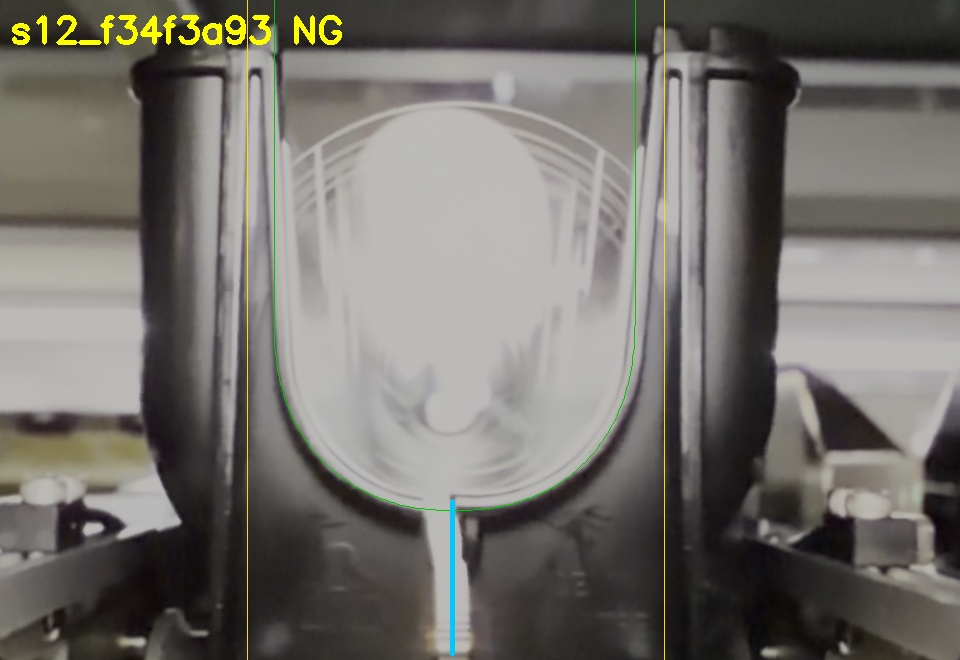
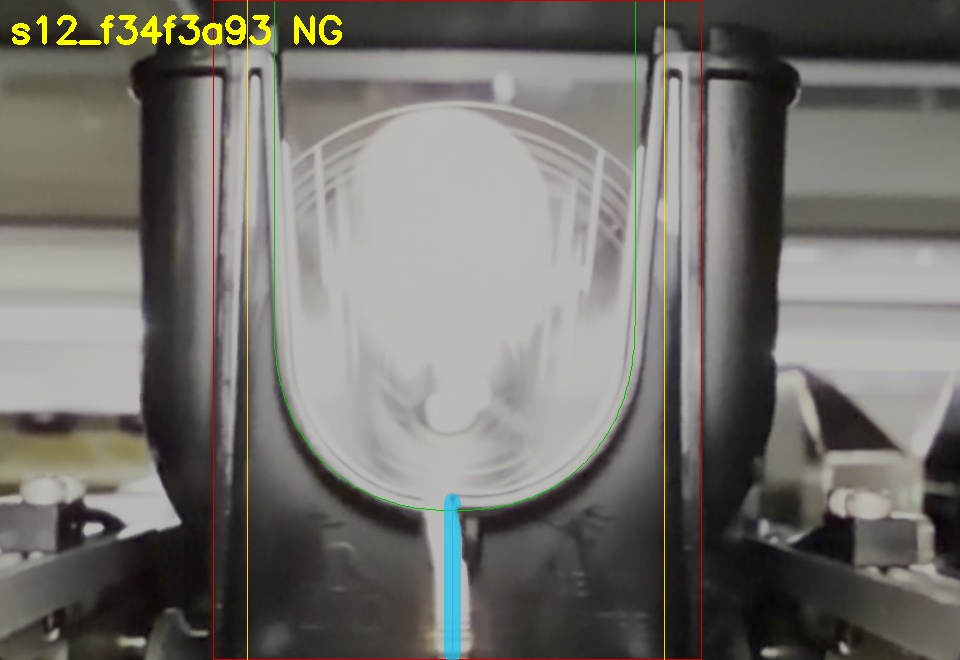
Stable U detection fallback, gate mold line not NG by continuity alone, D ratio 0.30, crack width measurement and region drawing, outer frame drawn; OK 157/157, NG 42/48
Claude-Session: https://claude.ai/code/session_01AGHVZAzegJVfdU4wL5nFmJ

diff --git a/gist/crack_v14_bundle.py b/gist/crack_v14_bundle.py
@@ -102,23 +102,30 @@ def main():
         lw = max(2, round(vis.shape[1] / 320))           # 画像の大きさに合わせた線の太さ
         # 見つけた U字と縦リブ（細い線、確認用）
         cv2.polylines(vis, [r["u_img"]["rim"].astype(np.int32)], False, (0, 200, 0), max(1, lw // 2))
+        if "frame" in r["u_img"]:
+            cv2.polylines(vis, [r["u_img"]["frame"].astype(np.int32)], False, (0, 0, 200), max(1, lw // 2))
         for line in r["u_img"]["ribs"]:
             cv2.polylines(vis, [line.astype(np.int32)], False, (0, 220, 255), max(1, lw // 2))
         for t in ("D", "B"):
             for i, q in enumerate(r["res"].get(t, [])):
                 if q["ng"]:
-                    cv2.polylines(vis, [q["path_img"].astype(np.int32)], False, COLORS[t], lw)
+                    if "region" in q:                     # 割れの領域を幅のまま半透明で塗る
+                        reg = cv2.resize(q["region"].astype(np.uint8), (vis.shape[1], vis.shape[0]),
+                                         interpolation=cv2.INTER_NEAREST).astype(bool)
+                        vis[reg] = (0.4 * vis[reg] + 0.6 * np.array(COLORS[t])).astype(np.uint8)
+                    cv2.polylines(vis, [q["path_img"].astype(np.int32)], False, COLORS[t], max(1, lw // 2))
                 rb, rc = q.get("rim_break"), q.get("reach")
                 msg += (f" | {t}{i} r={q['ratio']:.2f} gap={q['max_gap']:.0f}"
                         f" in={q['inner_gap']:.0f} out={q['outer_gap']:.0f}"
                         + (f" rim={rb:.2f}" if rb is not None else "")
                         + (f" reach={rc:.2f}" if rc is not None else "")
+                        + (f" 幅={q['width_px']:.1f}px(最大{q['width_max_px']:.1f})" if "width_px" in q else "")
                         + (" NG" if q["ng"] else ""))
                 (x1, y1), (x2, y2) = q["path_img"].min(0).astype(int), q["path_img"].max(0).astype(int)
                 rows.append([name, t, i, round(q["ratio"], 3), round(q["max_gap"], 1),
                              round(q["inner_gap"], 1), round(q["outer_gap"], 1),
                              "" if rb is None else round(rb, 3), "" if rc is None else round(rc, 3),
-                             q["ng"], x1, y1, x2, y2])
+                             q["ng"], round(q.get("width_px", 0), 1), round(q.get("width_max_px", 0), 1), x1, y1, x2, y2])
         print(msg)
         summary.append([name, r["judgment"], r["detail"], len(r["defects"])])
 
@@ -139,7 +146,7 @@ def main():
     with open(os.path.join(a.out, "results.csv"), "w", newline="") as fh:
         w = csv.writer(fh)
         w.writerow(["img", "type", "rank", "ratio", "max_gap", "inner_gap", "outer_gap",
-                    "rim_break", "reach", "ng", "x1", "y1", "x2", "y2"])
+                    "rim_break", "reach", "ng", "width_px", "width_max_px", "x1", "y1", "x2", "y2"])
         w.writerows(rows)
     n_ng = sum(1 for r in summary if r[1] == "NG")
     n_err = sum(1 for r in summary if r[1] == "ERROR")
@@ -733,7 +740,7 @@ from .u_detect import detect_geometry
 
 # ---------------------------------------------------------------- 判定の閾値（調整するのはここ）
 PARAMS = dict(
-    ratio_th=0.35,        # 道の上で健全部を通った割合がこれ以下なら「抜けている」（D: 暗い割れ）
+    ratio_th=0.30,        # 道の上で健全部を通った割合がこれ以下なら「抜けている」（D: 暗い割れ。本物は最大 0.25、OK品の傷は 0.31〜）
     b_ratio_th=0.50,      # B（明るい割れ）は光が漏れてはっきり明るいので厳しくする（本物は 0.03〜0.06、リブの反射は 0.3 前後）
     gap_th=25.0,          # 割れていない区間が最長でもこれ以下 [px]
     end_gap_inner=15.0,   # 割れが内側の端からこれ以上手前で止まっていたら半割れ（OK） [px]
@@ -829,16 +836,40 @@ class Inspector:
                     q["ng"] = q["ng"] and ends_ok and q["reach"] >= p["reach_th"]
                 else:
                     q["rim_break"], ri = cr.rim_break(frame, start)
-                    if cr.rim_ignored(ri):
+                    at_gate = cr.rim_ignored(ri)
+                    if at_gate:
                         q["rim_break"] = 0.0                            # ゲートの切り欠きは数えない
                     P = q["path"]
                     detour = q["length"] / max(float(to_outer[P[0, 0], P[0, 1]]), 1.0)
                     q["detour"] = detour
-                    solid = q["max_gap"] <= p["solid_gap_th"] and (
+                    # ゲートから真下の穴へは、OK品にも同じ位置に成形線が通っている。ゲートから始まる線は
+                    # 「きれいにつながっている」だけでは NG にしない（縁取りの途切れが必要）
+                    solid = (not at_gate) and q["max_gap"] <= p["solid_gap_th"] and (
                         q["ratio"] <= p["solid_ratio_th"]
                         or (q["ratio"] <= p["direct_ratio_th"] and detour <= p["direct_detour"]))
                     q["ng"] = q["ng"] and ends_ok and (q["rim_break"] >= p["rim_break_th"] or solid)
                 q.pop("prob", None)
+
+        # 割れの幅: 割れらしい画素の塊のうち、経路の近くにある部分を「割れの領域」として、
+        # 経路の各点での太さ（中心から縁までの距離 × 2）を測る
+        maps = {"D": pd}
+        if lit:
+            maps["B"] = pb
+        sx_in = gray.shape[1] / SIZE[0]                         # 検査の座標 1px = 入力画像の何px か
+        for t, cands in res.items():
+            crack = (maps[t] > 0.15).astype(np.uint8)
+            dt = cv2.distanceTransform(crack, cv2.DIST_L2, 3)
+            for q in cands:
+                if not q["ng"]:
+                    continue
+                P = q["path"]
+                near = np.zeros(crack.shape, np.uint8)
+                cv2.polylines(near, [P[:, ::-1].astype(np.int32)], False, 1, 15)
+                q["region"] = (crack & near).astype(bool)            # 割れの領域（幅のある形）
+                w = 2 * dt[P[:, 0], P[:, 1]]
+                w = w[w > 0]
+                q["width_px"] = float(np.median(w) * sx_in) if len(w) else 0.0      # 入力画像での幅 [px]
+                q["width_max_px"] = float(np.percentile(w, 95) * sx_in) if len(w) else 0.0
 
         # 見つけた経路・U字の線を入力画像の座標に戻す（結果の描画と CSV 用）
         Minv = np.linalg.inv(M)
@@ -855,6 +886,9 @@ class Inspector:
                     defects.append(dict(type=t, bbox=(int(x1), int(y1), int(x2), int(y2))))
         types = sorted({t for t in res if any(q["ng"] for q in res[t])})
         u_img = dict(rim=back(geom["opening"][1:-1]), ribs=[back(line) for line in geom["outer"][:2]])
+        if "frame_box" in geom:                                  # カセットの外側の縁（確認用の赤い枠）
+            a_, b_ = geom["frame_box"]; yb_ = max(y for _, y in geom["plate"])
+            u_img["frame"] = back([(a_, 0), (b_, 0), (b_, yb_), (a_, yb_), (a_, 0)])
         return dict(kind="auto", backlit=lit, u_score=uscore, geom=geom, u_img=u_img, M=M, frame=frame,
                     res=res, judgment="NG" if defects else "OK", defects=defects, detail="+".join(types))
 '''
@@ -1108,7 +1142,7 @@ def u_model(cx, w, cy, ry, sq, n_arc=120, leg_step=6.0):
     return np.vstack([left, arc, right])
 
 
-def find_opening(frame):
+def find_opening(frame, sigma=2.0, bottom_seed=0.97):
     """U字の開口部（縁取りの内側の穴）を、領域として切り出す（ウォーターシェッド法）。
 
     考え方:
@@ -1120,12 +1154,12 @@ def find_opening(frame):
     そのあと、明るい割れに沿って細く漏れた部分を、太い円で削って取り除く。
     """
     H, W = frame.shape
-    f = cv2.GaussianBlur(frame.astype(np.float32), (0, 0), 2)
+    f = cv2.GaussianBlur(frame.astype(np.float32), (0, 0), sigma)
     gm = cv2.magnitude(cv2.Sobel(f, cv2.CV_32F, 1, 0), cv2.Sobel(f, cv2.CV_32F, 0, 1))
     gm = np.clip(gm / (np.percentile(gm, 99) + 1e-6) * 255, 0, 255).astype(np.uint8)
     mk = np.zeros((H, W), np.int32)
     mk[int(0.12 * H):int(0.30 * H), int(0.49 * W):int(0.51 * W)] = 1          # 中の種
-    mk[int(0.97 * H):, :] = 2; mk[:, :int(0.03 * W)] = 2; mk[:, int(0.97 * W):] = 2   # 外の種
+    mk[int(bottom_seed * H):, :] = 2; mk[:, :int(0.03 * W)] = 2; mk[:, int(0.97 * W):] = 2   # 外の種
     ws = cv2.watershed(cv2.cvtColor(gm, cv2.COLOR_GRAY2BGR), mk)
     op = (ws == 1).astype(np.uint8)
     k = cv2.getStructuringElement(cv2.MORPH_ELLIPSE, (41, 41))
@@ -1280,8 +1314,37 @@ def find_plate_bottom(frame, lx, rx, y_start):
 def detect_geometry(frame, edge_margin=3, min_thick=40):
     """1枚の画像（基準座標 960x660）から検査範囲を作る。戻り値: (検査範囲, はっきり度)"""
     W, H = SIZE
-    op = find_opening(frame)                                    # U字の開口部を領域として切り出す
-    up, fit_err = fit_u_to_mask(op)                             # その輪郭に綺麗なU字を当てはめる
+    # ウォーターシェッドは画像のわずかな違いで結果が変わることがあるので、ぼかし具合と「外」の種を
+    # 変えて何通りか作り、「線の内側が明るく、外側（樹脂）が暗い」がいちばんはっきりした U字を選ぶ
+    img_s = cv2.GaussianBlur(frame.astype(np.float32), (0, 0), 1.5)
+    best, primary = None, None
+    for sigma in (1.5, 2.0, 3.0):
+        for bseed in (0.97, 0.80):
+            op_ = find_opening(frame, sigma, bseed)
+            if op_.sum() < 0.02 * op_.size:
+                continue
+            up_, err_ = fit_u_to_mask(op_)
+            c = u_model(*up_, n_arc=80, leg_step=8.0)
+            c = c[c[:, 1] > 0.1 * H]
+            t = np.gradient(c, axis=0); t /= np.linalg.norm(t, axis=1, keepdims=True) + 1e-9
+            nrm = np.stack([t[:, 1], -t[:, 0]], 1)               # 内側向き
+            def val(q):
+                x = np.clip(q[:, 0], 0, W - 1).astype(np.float32).reshape(1, -1)
+                y = np.clip(q[:, 1], 0, H - 1).astype(np.float32).reshape(1, -1)
+                return cv2.remap(img_s, x, y, cv2.INTER_LINEAR).ravel()
+            pol = np.mean([val(c + d * nrm) - val(c - d * nrm) for d in (4, 8, 12)], axis=0)
+            score = float(np.clip(pol, -40, 40).mean()) - 0.5 * err_
+            if sigma == 2.0 and bseed == 0.97:
+                primary = (score, op_, up_, err_)
+            if best is None or score > best[0]:
+                best = (score, op_, up_, err_)
+    # 基本は標準の設定（ぼかし2・下端の種）の結果を使う。開口部がプレートまで漏れて
+    # U字の底が画像の下の方まで来てしまった（明らかに失敗した）ときだけ、別の結果に替える
+    if primary is not None:
+        p_bottom = primary[2][2] + primary[2][3]
+        if p_bottom < 0.72 * H or best[0] < primary[0] + 8:
+            best = primary
+    _, op, up, fit_err = best
     cx, cy = up[0], up[2]
     total = 60.0 - fit_err                                      # はっきり度: 当てはまりが良いほど大きい
     rim = u_model(*up)

diff --git a/crack_v14/inspect_v14.py b/crack_v14/inspect_v14.py
@@ -20,7 +20,7 @@ from .u_detect import detect_geometry
 
 # ---------------------------------------------------------------- 判定の閾値（調整するのはここ）
 PARAMS = dict(
-    ratio_th=0.35,        # 道の上で健全部を通った割合がこれ以下なら「抜けている」（D: 暗い割れ）
+    ratio_th=0.30,        # 道の上で健全部を通った割合がこれ以下なら「抜けている」（D: 暗い割れ。本物は最大 0.25、OK品の傷は 0.31〜）
     b_ratio_th=0.50,      # B（明るい割れ）は光が漏れてはっきり明るいので厳しくする（本物は 0.03〜0.06、リブの反射は 0.3 前後）
     gap_th=25.0,          # 割れていない区間が最長でもこれ以下 [px]
     end_gap_inner=15.0,   # 割れが内側の端からこれ以上手前で止まっていたら半割れ（OK） [px]
@@ -116,16 +116,40 @@ class Inspector:
                     q["ng"] = q["ng"] and ends_ok and q["reach"] >= p["reach_th"]
                 else:
                     q["rim_break"], ri = cr.rim_break(frame, start)
-                    if cr.rim_ignored(ri):
+                    at_gate = cr.rim_ignored(ri)
+                    if at_gate:
                         q["rim_break"] = 0.0                            # ゲートの切り欠きは数えない
                     P = q["path"]
                     detour = q["length"] / max(float(to_outer[P[0, 0], P[0, 1]]), 1.0)
                     q["detour"] = detour
-                    solid = q["max_gap"] <= p["solid_gap_th"] and (
+                    # ゲートから真下の穴へは、OK品にも同じ位置に成形線が通っている。ゲートから始まる線は
+                    # 「きれいにつながっている」だけでは NG にしない（縁取りの途切れが必要）
+                    solid = (not at_gate) and q["max_gap"] <= p["solid_gap_th"] and (
                         q["ratio"] <= p["solid_ratio_th"]
                         or (q["ratio"] <= p["direct_ratio_th"] and detour <= p["direct_detour"]))
                     q["ng"] = q["ng"] and ends_ok and (q["rim_break"] >= p["rim_break_th"] or solid)
                 q.pop("prob", None)
+
+        # 割れの幅: 割れらしい画素の塊のうち、経路の近くにある部分を「割れの領域」として、
+        # 経路の各点での太さ（中心から縁までの距離 × 2）を測る
+        maps = {"D": pd}
+        if lit:
+            maps["B"] = pb
+        sx_in = gray.shape[1] / SIZE[0]                         # 検査の座標 1px = 入力画像の何px か
+        for t, cands in res.items():
+            crack = (maps[t] > 0.15).astype(np.uint8)
+            dt = cv2.distanceTransform(crack, cv2.DIST_L2, 3)
+            for q in cands:
+                if not q["ng"]:
+                    continue
+                P = q["path"]
+                near = np.zeros(crack.shape, np.uint8)
+                cv2.polylines(near, [P[:, ::-1].astype(np.int32)], False, 1, 15)
+                q["region"] = (crack & near).astype(bool)            # 割れの領域（幅のある形）
+                w = 2 * dt[P[:, 0], P[:, 1]]
+                w = w[w > 0]
+                q["width_px"] = float(np.median(w) * sx_in) if len(w) else 0.0      # 入力画像での幅 [px]
+                q["width_max_px"] = float(np.percentile(w, 95) * sx_in) if len(w) else 0.0
 
         # 見つけた経路・U字の線を入力画像の座標に戻す（結果の描画と CSV 用）
         Minv = np.linalg.inv(M)
@@ -142,5 +166,8 @@ class Inspector:
                     defects.append(dict(type=t, bbox=(int(x1), int(y1), int(x2), int(y2))))
         types = sorted({t for t in res if any(q["ng"] for q in res[t])})
         u_img = dict(rim=back(geom["opening"][1:-1]), ribs=[back(line) for line in geom["outer"][:2]])
+        if "frame_box" in geom:                                  # カセットの外側の縁（確認用の赤い枠）
+            a_, b_ = geom["frame_box"]; yb_ = max(y for _, y in geom["plate"])
+            u_img["frame"] = back([(a_, 0), (b_, 0), (b_, yb_), (a_, yb_), (a_, 0)])
         return dict(kind="auto", backlit=lit, u_score=uscore, geom=geom, u_img=u_img, M=M, frame=frame,
                     res=res, judgment="NG" if defects else "OK", defects=defects, detail="+".join(types))

diff --git a/crack_v14/u_detect.py b/crack_v14/u_detect.py
@@ -68,7 +68,7 @@ def u_model(cx, w, cy, ry, sq, n_arc=120, leg_step=6.0):
     return np.vstack([left, arc, right])
 
 
-def find_opening(frame):
+def find_opening(frame, sigma=2.0, bottom_seed=0.97):
     """U字の開口部（縁取りの内側の穴）を、領域として切り出す（ウォーターシェッド法）。
 
     考え方:
@@ -80,12 +80,12 @@ def find_opening(frame):
     そのあと、明るい割れに沿って細く漏れた部分を、太い円で削って取り除く。
     """
     H, W = frame.shape
-    f = cv2.GaussianBlur(frame.astype(np.float32), (0, 0), 2)
+    f = cv2.GaussianBlur(frame.astype(np.float32), (0, 0), sigma)
     gm = cv2.magnitude(cv2.Sobel(f, cv2.CV_32F, 1, 0), cv2.Sobel(f, cv2.CV_32F, 0, 1))
     gm = np.clip(gm / (np.percentile(gm, 99) + 1e-6) * 255, 0, 255).astype(np.uint8)
     mk = np.zeros((H, W), np.int32)
     mk[int(0.12 * H):int(0.30 * H), int(0.49 * W):int(0.51 * W)] = 1          # 中の種
-    mk[int(0.97 * H):, :] = 2; mk[:, :int(0.03 * W)] = 2; mk[:, int(0.97 * W):] = 2   # 外の種
+    mk[int(bottom_seed * H):, :] = 2; mk[:, :int(0.03 * W)] = 2; mk[:, int(0.97 * W):] = 2   # 外の種
     ws = cv2.watershed(cv2.cvtColor(gm, cv2.COLOR_GRAY2BGR), mk)
     op = (ws == 1).astype(np.uint8)
     k = cv2.getStructuringElement(cv2.MORPH_ELLIPSE, (41, 41))
@@ -240,8 +240,37 @@ def find_plate_bottom(frame, lx, rx, y_start):
 def detect_geometry(frame, edge_margin=3, min_thick=40):
     """1枚の画像（基準座標 960x660）から検査範囲を作る。戻り値: (検査範囲, はっきり度)"""
     W, H = SIZE
-    op = find_opening(frame)                                    # U字の開口部を領域として切り出す
-    up, fit_err = fit_u_to_mask(op)                             # その輪郭に綺麗なU字を当てはめる
+    # ウォーターシェッドは画像のわずかな違いで結果が変わることがあるので、ぼかし具合と「外」の種を
+    # 変えて何通りか作り、「線の内側が明るく、外側（樹脂）が暗い」がいちばんはっきりした U字を選ぶ
+    img_s = cv2.GaussianBlur(frame.astype(np.float32), (0, 0), 1.5)
+    best, primary = None, None
+    for sigma in (1.5, 2.0, 3.0):
+        for bseed in (0.97, 0.80):
+            op_ = find_opening(frame, sigma, bseed)
+            if op_.sum() < 0.02 * op_.size:
+                continue
+            up_, err_ = fit_u_to_mask(op_)
+            c = u_model(*up_, n_arc=80, leg_step=8.0)
+            c = c[c[:, 1] > 0.1 * H]
+            t = np.gradient(c, axis=0); t /= np.linalg.norm(t, axis=1, keepdims=True) + 1e-9
+            nrm = np.stack([t[:, 1], -t[:, 0]], 1)               # 内側向き
+            def val(q):
+                x = np.clip(q[:, 0], 0, W - 1).astype(np.float32).reshape(1, -1)
+                y = np.clip(q[:, 1], 0, H - 1).astype(np.float32).reshape(1, -1)
+                return cv2.remap(img_s, x, y, cv2.INTER_LINEAR).ravel()
+            pol = np.mean([val(c + d * nrm) - val(c - d * nrm) for d in (4, 8, 12)], axis=0)
+            score = float(np.clip(pol, -40, 40).mean()) - 0.5 * err_
+            if sigma == 2.0 and bseed == 0.97:
+                primary = (score, op_, up_, err_)
+            if best is None or score > best[0]:
+                best = (score, op_, up_, err_)
+    # 基本は標準の設定（ぼかし2・下端の種）の結果を使う。開口部がプレートまで漏れて
+    # U字の底が画像の下の方まで来てしまった（明らかに失敗した）ときだけ、別の結果に替える
+    if primary is not None:
+        p_bottom = primary[2][2] + primary[2][3]
+        if p_bottom < 0.72 * H or best[0] < primary[0] + 8:
+            best = primary
+    _, op, up, fit_err = best
     cx, cy = up[0], up[2]
     total = 60.0 - fit_err                                      # はっきり度: 当てはまりが良いほど大きい
     rim = u_model(*up)

diff --git a/crack_v14/cli.py b/crack_v14/cli.py
@@ -91,23 +91,30 @@ def main():
         lw = max(2, round(vis.shape[1] / 320))           # 画像の大きさに合わせた線の太さ
         # 見つけた U字と縦リブ（細い線、確認用）
         cv2.polylines(vis, [r["u_img"]["rim"].astype(np.int32)], False, (0, 200, 0), max(1, lw // 2))
+        if "frame" in r["u_img"]:
+            cv2.polylines(vis, [r["u_img"]["frame"].astype(np.int32)], False, (0, 0, 200), max(1, lw // 2))
         for line in r["u_img"]["ribs"]:
             cv2.polylines(vis, [line.astype(np.int32)], False, (0, 220, 255), max(1, lw // 2))
         for t in ("D", "B"):
             for i, q in enumerate(r["res"].get(t, [])):
                 if q["ng"]:
-                    cv2.polylines(vis, [q["path_img"].astype(np.int32)], False, COLORS[t], lw)
+                    if "region" in q:                     # 割れの領域を幅のまま半透明で塗る
+                        reg = cv2.resize(q["region"].astype(np.uint8), (vis.shape[1], vis.shape[0]),
+                                         interpolation=cv2.INTER_NEAREST).astype(bool)
+                        vis[reg] = (0.4 * vis[reg] + 0.6 * np.array(COLORS[t])).astype(np.uint8)
+                    cv2.polylines(vis, [q["path_img"].astype(np.int32)], False, COLORS[t], max(1, lw // 2))
                 rb, rc = q.get("rim_break"), q.get("reach")
                 msg += (f" | {t}{i} r={q['ratio']:.2f} gap={q['max_gap']:.0f}"
                         f" in={q['inner_gap']:.0f} out={q['outer_gap']:.0f}"
                         + (f" rim={rb:.2f}" if rb is not None else "")
                         + (f" reach={rc:.2f}" if rc is not None else "")
+                        + (f" 幅={q['width_px']:.1f}px(最大{q['width_max_px']:.1f})" if "width_px" in q else "")
                         + (" NG" if q["ng"] else ""))
                 (x1, y1), (x2, y2) = q["path_img"].min(0).astype(int), q["path_img"].max(0).astype(int)
                 rows.append([name, t, i, round(q["ratio"], 3), round(q["max_gap"], 1),
                              round(q["inner_gap"], 1), round(q["outer_gap"], 1),
                              "" if rb is None else round(rb, 3), "" if rc is None else round(rc, 3),
-                             q["ng"], x1, y1, x2, y2])
+                             q["ng"], round(q.get("width_px", 0), 1), round(q.get("width_max_px", 0), 1), x1, y1, x2, y2])
         print(msg)
         summary.append([name, r["judgment"], r["detail"], len(r["defects"])])
 
@@ -128,7 +135,7 @@ def main():
     with open(os.path.join(a.out, "results.csv"), "w", newline="") as fh:
         w = csv.writer(fh)
         w.writerow(["img", "type", "rank", "ratio", "max_gap", "inner_gap", "outer_gap",
-                    "rim_break", "reach", "ng", "x1", "y1", "x2", "y2"])
+                    "rim_break", "reach", "ng", "width_px", "width_max_px", "x1", "y1", "x2", "y2"])
         w.writerows(rows)
     n_ng = sum(1 for r in summary if r[1] == "NG")
     n_err = sum(1 for r in summary if r[1] == "ERROR")
